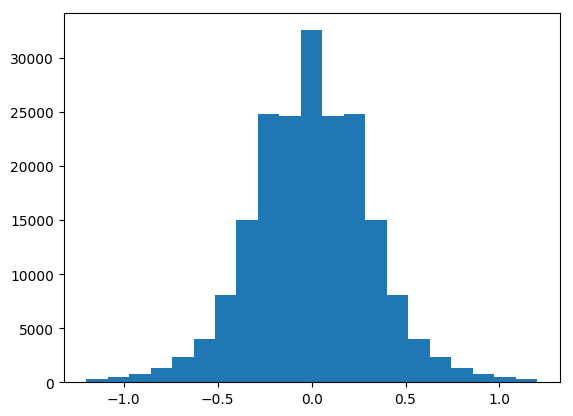
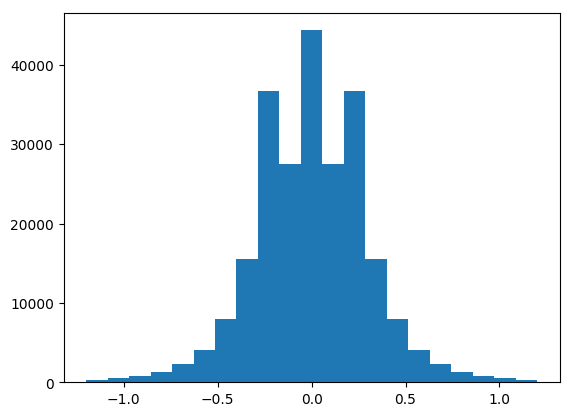
small changes

diff --git a/train.py b/train.py
@@ -1,7 +1,6 @@
 import data
 from sklearn.model_selection import train_test_split
 
-augment_data = False
 
 def train(model, filename, track1, side_cameras, use_generators,epochs, keep_straight_rate = 1.0):
     samples = data.load_data(track1, side_cameras, keep_straight_rate=keep_straight_rate)
@@ -12,6 +11,8 @@ def train(model, filename, track1, side_cameras, use_generators,epochs, keep_str
         print("Training", len(train_samples))
         print("Validation", len(validation_samples))        
         batch_size = 100
+
+        augment_data = False
         
         if augment_data:
             train_generator = data.generator(train_samples, batch_size = batch_size)

diff --git a/dave2_dropout.py b/dave2_dropout.py
@@ -62,6 +62,6 @@ def dave2():
     return model
 
 #train.train( dave2(), 'dave2-dropout', True, False, True, 10, 0.5)
-#train.train( dave2(), 'dave2-dropout', True, True, True, 10, 0.5)
+train.train( dave2(), 'dave2-dropout', True, True, True, 10, 0.5)
 #train.train( dave2(), 'dave2-dropout', False, False, True, 10, 0.5)
-train.train( dave2(), 'dave2-dropout', False, True, True, 10, 0.5)
+#train.train( dave2(), 'dave2-dropout', False, True, True, 10, 0.5)

diff --git a/data.py b/data.py
@@ -8,7 +8,7 @@ data_home = '/home/ans5k/work/CarND-Behavioral-Cloning-P3/data/'
 
 def load_data(track1, side_cameras, keep_straight_rate = 1.0):
     if track1:
-        data_dirs = glob.glob(data_home + 'track1_mouse*')
+        data_dirs = glob.glob(data_home + 'track1_data*')
         #data_dirs = glob.glob(data_home + 'track1_data*')
     else:
         data_dirs = glob.glob(data_home + '*')

diff --git a/dave2.py b/dave2.py
@@ -52,7 +52,7 @@ def dave2():
     return model
 
 #train.train( dave2(), 'dave2', True, False, True, 5)
-#train.train( dave2(), 'dave2', True, True, True, 5)
+train.train( dave2(), 'dave2', True, True, True, 5)
 #train.train( dave2(), 'dave2', False, False, True, 5)
-train.train( dave2(), 'dave2', False, True, True, 5)
+#train.train( dave2(), 'dave2', False, True, True, 5)
 

diff --git a/analysis.py b/analysis.py
@@ -68,4 +68,4 @@ def augmetation():
 # augmetation()
 
 #data_distribution(1.0)
-data_distribution(0.5)
+data_distribution(0.3)
